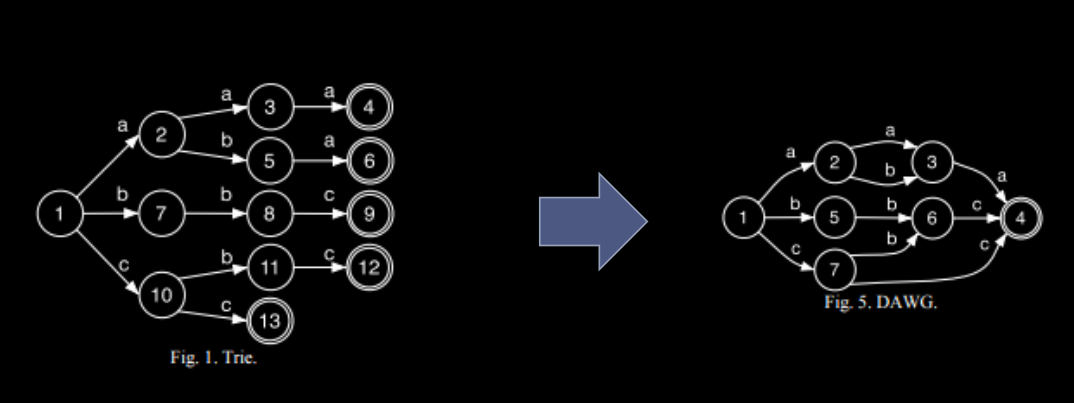
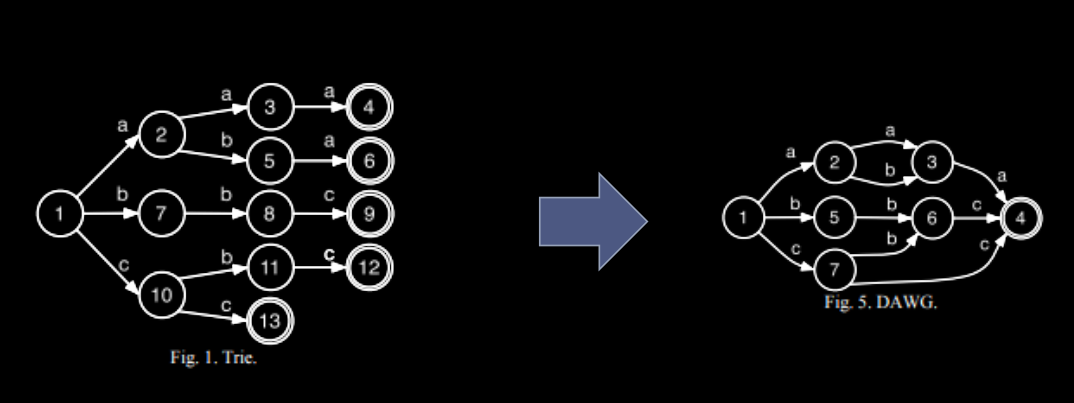
improved images contrast

diff --git a/06_advanced-data-structures-1/index.html b/06_advanced-data-structures-1/index.html
@@ -58,25 +58,13 @@
         <section data-markdown="">
             <script type="text/template">
                 ### Classification
-                1. _Ephemeral_ - changes to DS destroy all past info
+                1. _Ephemeral_ - changes to the DS destroy all past info
                 2. _Partial persistence_ - changes to the most recent version, query to all past versions
                 3. _Full persistence_ - changes to any version allowed, version tree
                 4. _Confluent persistence_ - versions form arbitrary DAG
                 5. _Functional_ - data structure immutable
 
                 Q: Is it true 5 => 2, 3, 4?
-            </script>
-        </section>
-
-        <section data-markdown="">
-            <script type="text/template">
-                ### Terminology notes
-                1. Trie [`trai]
-                2. Prefix tree, suffix tree, Patricia tree<br />
-                _Practical Algorithm to Retrieve Information Coded in Alphanumeric, Donald R. Morrison, 1968_
-                3. Radix tree
-                4. Double-array trie
-                5. HAT-trie (also array-based, cache friendly)
             </script>
         </section>
 
@@ -130,6 +118,18 @@
 
         <section data-markdown="">
             <script type="text/template">
+                ### Terminology notes
+                1. Trie [`trai]
+                2. Prefix tree, suffix tree, Patricia tree<br />
+                _Practical Algorithm to Retrieve Information Coded in Alphanumeric, Donald R. Morrison, 1968_
+                3. Radix tree
+                4. Double-array trie
+                5. HAT-trie (also array-based, cache friendly)
+            </script>
+        </section>
+
+        <section data-markdown="">
+            <script type="text/template">
                 ### Double-array trie, step 1
                 <img src="img/ads-07-the-example-1.png"/>
             </script>
@@ -143,22 +143,7 @@
                 ### Double-array trie, step 2
                 Trie as DFA, transition table
 
-                |    | #  | a  | b  | c |
-                |----|----|----|----|---|
-                | 1  |    | 3  |    |   |
-                | 2  |    |    |    |   |
-                | 3  |    | 4  | 5  |   |
-                | 4  |    | 6  | 7  |   |
-                | 5  | 8  |    | 10 |   |
-                | 6  |    |    |    | 9 |
-                | 7  | 13 |    |    |   |
-                | 8  |    |    |    |   |
-                | 9  | 2  |    |    |   |
-                | 10 | 11 | 12 |    |   |
-                | 11 |    |    |    |   |
-                | 12 | 14 |    |    |   |
-                | 13 |    |    |    |   |
-                | 14 |    |    |    |   |
+                <img src="img/ads-07-transition-table.png"/>
             </script>
         </section>
 
